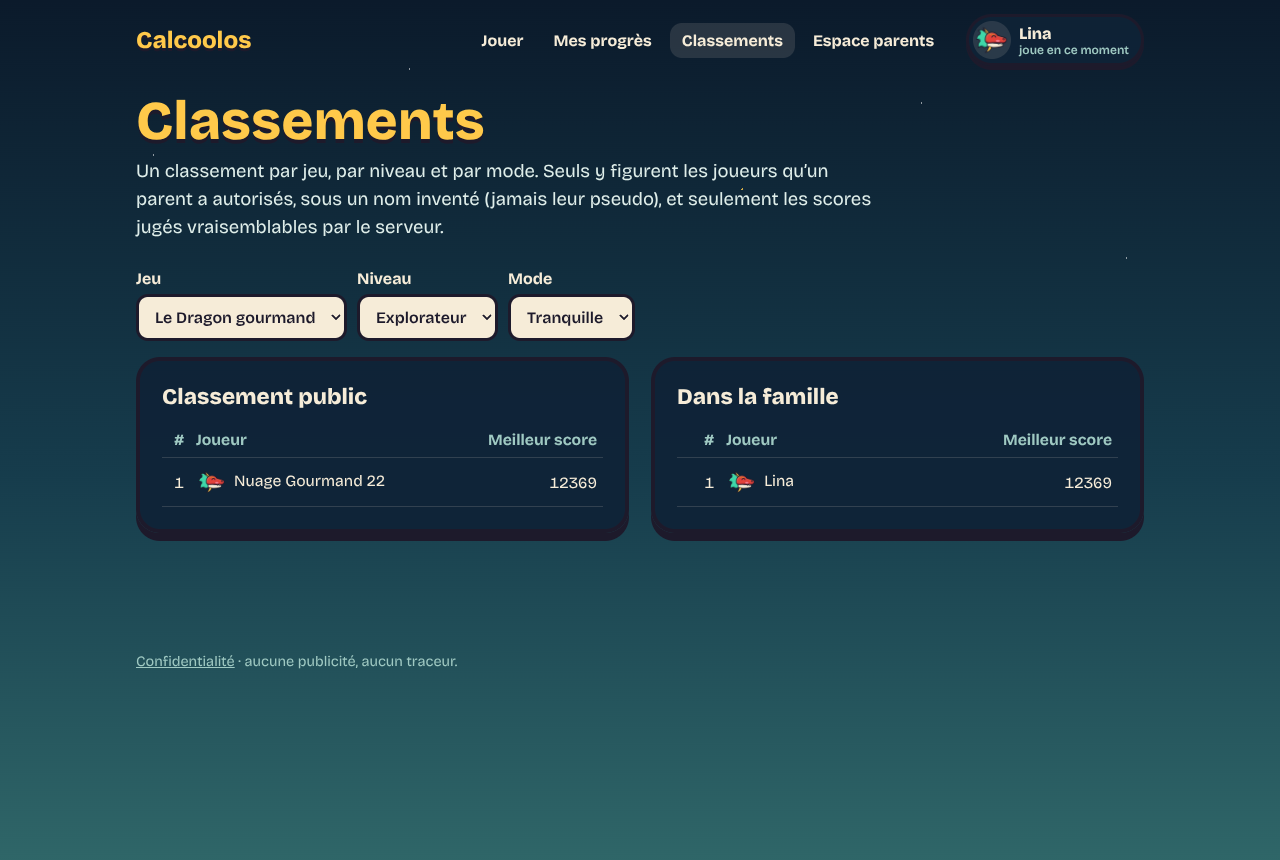
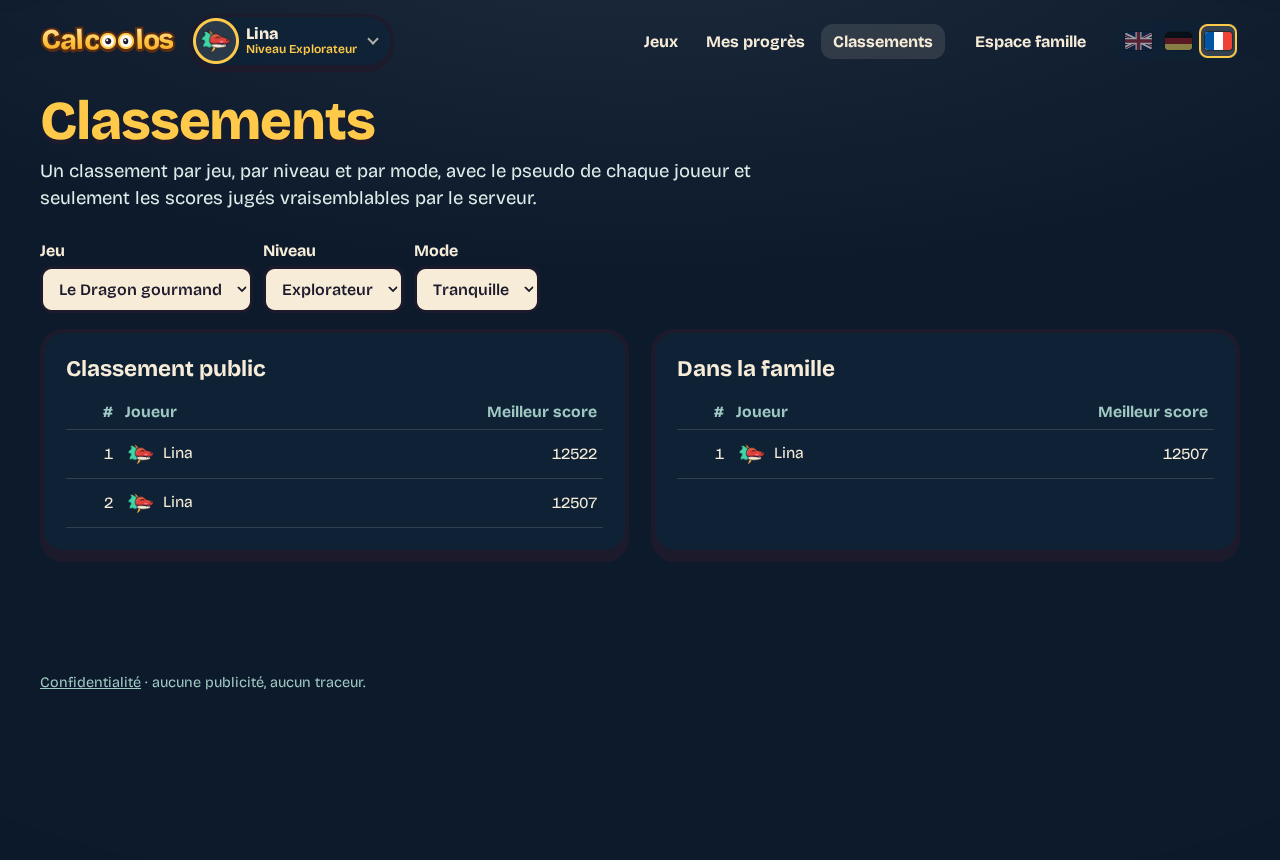
Classements publics sous le pseudo, plus de case d'autorisation ; « Aide-moi à trouver un pseudo »
La case « Apparaître dans les classements publics, sous le nom inventé… » et le bouton
« Autre nom » disparaissent : tous les profils figurent au classement public sous leur pseudo
(scores vérifiés seulement, jamais l'e-mail). Nouveau bouton sous le champ Pseudo qui propose
des pseudos rigolos : jeux de mots sur les maths, titres de héros, animal + adjectif.

diff --git a/src/entries/compte.ts b/src/entries/compte.ts
@@ -10,6 +10,7 @@ import { activePlayer, setActivePlayer } from '../platform/player';
 import { TIER_NAMES } from '../platform/stats';
 import { field, h, showErrors } from '../platform/dom';
 import { boutonGoogle, oublierGoogle } from '../platform/google';
+import { pseudoAuHasard } from '../platform/pseudos';
 
 const root = document.querySelector<HTMLElement>('#contenu')!;
 
@@ -27,6 +28,19 @@ function avatarPicker(name: string, value = 'dragon'): HTMLFieldSetElement {
     fs.append(h('label', { title: a.label }, input, avatarImg(id, 52, '')));
   }
   return fs;
+}
+
+/** Champ « Pseudo » avec le bouton « Aide-moi à trouver un pseudo » (jeux de mots sur les maths). */
+function pseudoField(value = ''): HTMLElement {
+  const input = h('input', { name: 'pseudo', value, maxlength: 20, required: true, placeholder: 'ex. Lina, Super Noé' });
+  const aide = h('button', { class: 'bouton petit secondaire pseudo-aide', type: 'button' }, '🎲 Aide-moi à trouver un pseudo');
+  aide.addEventListener('click', () => {
+    input.value = pseudoAuHasard(input.value);
+    input.focus();
+  });
+  return h('div', { class: 'champ-pseudo' },
+    field('Pseudo', input, 'pseudo', 'Un surnom suffit : pas de nom de famille. Il apparaît dans les classements publics.'),
+    aide);
 }
 
 function busy(form: HTMLFormElement, on: boolean): void {
@@ -147,7 +161,7 @@ function profileCard(p: Profile, refresh: (profiles: Profile[]) => void): HTMLEl
   });
 
   const edit = h('form', { class: 'formulaire', novalidate: true },
-    field('Pseudo', h('input', { name: 'pseudo', value: p.pseudo, maxlength: 20, required: true }), 'pseudo', 'Un surnom suffit : pas de nom de famille.'),
+    pseudoField(p.pseudo),
     field('Niveau', tierSelect('niveau', p.niveau), 'niveau'),
     avatarPicker(`avatar-${p.id}`, p.avatar),
     h('div', { class: 'actions' }, h('button', { class: 'bouton petit', type: 'submit' }, 'Enregistrer')),
@@ -164,18 +178,6 @@ function profileCard(p: Profile, refresh: (profiles: Profile[]) => void): HTMLEl
     showErrors(edit, msg, r?.data ?? { erreur: 'Le serveur ne répond pas.' });
   });
 
-  const publicBox = h('input', { type: 'checkbox', checked: p.classementPublic });
-  publicBox.addEventListener('change', async () => {
-    const r = await api.post<{ profils: Profile[] }>(`/profils/${p.id}/modifier`, { classementPublic: publicBox.checked }).catch(() => null);
-    if (r?.status === 200) refresh(r.data.profils);
-    else publicBox.checked = !publicBox.checked;
-  });
-  const rename = h('button', { class: 'bouton petit secondaire', type: 'button' }, 'Autre nom');
-  rename.addEventListener('click', async () => {
-    const r = await api.post<{ profils: Profile[] }>(`/profils/${p.id}/modifier`, { nouveauNomPublic: true }).catch(() => null);
-    if (r?.status === 200) refresh(r.data.profils);
-  });
-
   const del = h('button', { class: 'bouton petit danger', type: 'button' }, 'Supprimer ce profil');
   del.addEventListener('click', async () => {
     if (!window.confirm(t(`Supprimer le profil « ${p.pseudo} » et tous ses résultats ? C’est définitif.`))) return;
@@ -190,9 +192,7 @@ function profileCard(p: Profile, refresh: (profiles: Profile[]) => void): HTMLEl
     h('div', { class: 'profil-tete' }, avatarImg(p.avatar, 64, ''), h('div', {}, h('h3', {}, p.pseudo), h('span', { class: 'discret' }, TIER_NAMES[p.niveau] ?? p.niveau))),
     h('div', { class: 'actions' }, play, h('a', { class: 'bouton petit secondaire', href: `tableau.html?profil=${p.id}` }, 'Voir ses progrès')),
     h('details', {}, h('summary', {}, 'Modifier'), edit),
-    h('label', { class: 'case' }, publicBox, h('span', {},
-      'Apparaître dans les classements publics, sous le nom inventé « ', h('b', {}, p.nomPublic), ' » (jamais le pseudo). Désactivé par défaut.')),
-    h('div', { class: 'actions' }, rename, del),
+    h('div', { class: 'actions' }, del),
     msg,
   );
 }
@@ -200,7 +200,7 @@ function profileCard(p: Profile, refresh: (profiles: Profile[]) => void): HTMLEl
 function newProfileCard(refresh: (profiles: Profile[]) => void): HTMLElement {
   const msg = h('p', { class: 'message', role: 'status' });
   const form = h('form', { class: 'formulaire', novalidate: true },
-    field('Pseudo', h('input', { name: 'pseudo', maxlength: 20, required: true, placeholder: 'ex. Lina, Super Noé' }), 'pseudo', 'Un surnom suffit : pas de nom de famille.'),
+    pseudoField(),
     field('Niveau', tierSelect('niveau'), 'niveau'),
     avatarPicker('avatar-nouveau'),
     msg,
@@ -339,7 +339,7 @@ function renderAccount(state: AccountState): void {
   refresh(state.profils ?? []);
   root.replaceChildren(
     h('h1', {}, 'Espace famille'),
-    h('p', { class: 'chapeau' }, 'Chaque enfant a son profil : un pseudo, un avatar, un niveau. Ses résultats ne sont visibles que dans cet espace, sauf si vous l’autorisez à apparaître dans les classements publics, et alors seulement sous un nom inventé.'),
+    h('p', { class: 'chapeau' }, 'Chaque enfant a son profil : un pseudo, un avatar, un niveau. Ses meilleurs scores apparaissent dans les classements publics sous son pseudo ; le reste de ses résultats n’est visible que dans cet espace.'),
     grid,
     h('div', { style: 'height: 22px' }),
     accountCard(state),

diff --git a/src/i18n/de.ts b/src/i18n/de.ts
@@ -111,8 +111,8 @@ export const DE: Dictionnaire = {
   'Les classements ont besoin du serveur : indisponible pour le moment.': 'Die Bestenlisten brauchen den Server: im Moment nicht erreichbar.',
   'Classement public': 'Öffentliche Bestenliste',
   'Dans la famille': 'In der Familie',
-  'Un classement par jeu, par niveau et par mode. Seuls y figurent les joueurs qu’un parent a autorisés, sous un nom inventé (jamais leur pseudo), et seulement les scores jugés vraisemblables par le serveur.':
-    'Eine Bestenliste pro Spiel, Level und Modus. Dort erscheinen nur Spieler, die ein Elternteil erlaubt hat, unter einem erfundenen Namen (nie ihr Spitzname), und nur Punktestände, die der Server für glaubwürdig hält.',
+  'Un classement par jeu, par niveau et par mode, avec le pseudo de chaque joueur et seulement les scores jugés vraisemblables par le serveur.':
+    'Eine Bestenliste pro Spiel, Level und Modus, mit dem Spitznamen jedes Spielers und nur Punkteständen, die der Server für glaubwürdig hält.',
   Jeu: 'Spiel',
   Niveau: 'Level',
   Mode: 'Modus',
@@ -130,15 +130,13 @@ export const DE: Dictionnaire = {
   'Créer un espace famille': 'Einen Familienbereich anlegen',
   'Jouer avec ce profil': 'Mit diesem Profil spielen',
   Pseudo: 'Spitzname',
-  'Un surnom suffit : pas de nom de famille.': 'Ein Spitzname reicht: kein Nachname.',
+  'Un surnom suffit : pas de nom de famille. Il apparaît dans les classements publics.': 'Ein Spitzname reicht: kein Nachname. Er erscheint in öffentlichen Bestenlisten.',
+  '🎲 Aide-moi à trouver un pseudo': '🎲 Hilf mir, einen Spitznamen zu finden',
   Enregistrer: 'Speichern',
-  'Autre nom': 'Anderer Name',
   'Supprimer ce profil': 'Dieses Profil löschen',
   'Supprimer le profil « {*} » et tous ses résultats ? C’est définitif.': 'Das Profil „{}“ und alle seine Ergebnisse löschen? Das ist endgültig.',
   'Voir ses progrès': 'Fortschritte ansehen',
   Modifier: 'Bearbeiten',
-  'Apparaître dans les classements publics, sous le nom inventé «': 'In öffentlichen Bestenlisten erscheinen, unter dem erfundenen Namen „',
-  '» (jamais le pseudo). Désactivé par défaut.': '“ (nie der Spitzname). Standardmäßig aus.',
   'ex. Lina, Super Noé': 'z. B. Lina, Super Noah',
   'Ajouter le profil': 'Profil hinzufügen',
   'Nouveau profil de joueur': 'Neues Spielerprofil',
@@ -155,8 +153,8 @@ export const DE: Dictionnaire = {
   'Connecté avec': 'Angemeldet als',
   'Télécharger nos données': 'Unsere Daten herunterladen',
   'Supprimer le compte': 'Konto löschen',
-  'Chaque enfant a son profil : un pseudo, un avatar, un niveau. Ses résultats ne sont visibles que dans cet espace, sauf si vous l’autorisez à apparaître dans les classements publics, et alors seulement sous un nom inventé.':
-    'Jedes Kind hat ein eigenes Profil: Spitzname, Avatar, Level. Seine Ergebnisse sind nur in diesem Bereich sichtbar, außer Sie erlauben ihm, in öffentlichen Bestenlisten zu erscheinen, und dann nur unter einem erfundenen Namen.',
+  'Chaque enfant a son profil : un pseudo, un avatar, un niveau. Ses meilleurs scores apparaissent dans les classements publics sous son pseudo ; le reste de ses résultats n’est visible que dans cet espace.':
+    'Jedes Kind hat ein eigenes Profil: Spitzname, Avatar, Level. Seine besten Punktestände erscheinen in öffentlichen Bestenlisten unter seinem Spitznamen; der Rest seiner Ergebnisse ist nur in diesem Bereich sichtbar.',
   'Serveur indisponible': 'Server nicht erreichbar',
   'L’espace famille n’est pas joignable pour le moment (ou ce site fonctionne sans serveur). On peut toujours jouer en invité : les résultats restent sur cet appareil.':
     'Der Familienbereich ist im Moment nicht erreichbar (oder diese Seite läuft ohne Server). Man kann trotzdem als Gast spielen: Die Ergebnisse bleiben auf diesem Gerät.',

diff --git a/src/i18n/en.ts b/src/i18n/en.ts
@@ -111,8 +111,8 @@ export const EN: Dictionnaire = {
   'Les classements ont besoin du serveur : indisponible pour le moment.': 'Leaderboards need the server: unavailable right now.',
   'Classement public': 'Public leaderboard',
   'Dans la famille': 'In the family',
-  'Un classement par jeu, par niveau et par mode. Seuls y figurent les joueurs qu’un parent a autorisés, sous un nom inventé (jamais leur pseudo), et seulement les scores jugés vraisemblables par le serveur.':
-    'One leaderboard per game, level and mode. Only players allowed by a parent appear, under a made-up name (never their nickname), and only scores the server finds believable.',
+  'Un classement par jeu, par niveau et par mode, avec le pseudo de chaque joueur et seulement les scores jugés vraisemblables par le serveur.':
+    'One leaderboard per game, level and mode, with each player’s nickname and only scores the server finds believable.',
   Jeu: 'Game',
   Niveau: 'Level',
   Mode: 'Mode',
@@ -130,15 +130,13 @@ export const EN: Dictionnaire = {
   'Créer un espace famille': 'Create a family space',
   'Jouer avec ce profil': 'Play with this profile',
   Pseudo: 'Nickname',
-  'Un surnom suffit : pas de nom de famille.': 'A nickname is enough: no surname.',
+  'Un surnom suffit : pas de nom de famille. Il apparaît dans les classements publics.': 'A nickname is enough: no surname. It appears in public leaderboards.',
+  '🎲 Aide-moi à trouver un pseudo': '🎲 Help me find a nickname',
   Enregistrer: 'Save',
-  'Autre nom': 'Another name',
   'Supprimer ce profil': 'Delete this profile',
   'Supprimer le profil « {*} » et tous ses résultats ? C’est définitif.': 'Delete the profile “{}” and all its results? This cannot be undone.',
   'Voir ses progrès': 'See progress',
   Modifier: 'Edit',
-  'Apparaître dans les classements publics, sous le nom inventé «': 'Appear in public leaderboards, under the made-up name “',
-  '» (jamais le pseudo). Désactivé par défaut.': '” (never the nickname). Off by default.',
   'ex. Lina, Super Noé': 'e.g. Lina, Super Noah',
   'Ajouter le profil': 'Add profile',
   'Nouveau profil de joueur': 'New player profile',
@@ -155,8 +153,8 @@ export const EN: Dictionnaire = {
   'Connecté avec': 'Logged in as',
   'Télécharger nos données': 'Download our data',
   'Supprimer le compte': 'Delete the account',
-  'Chaque enfant a son profil : un pseudo, un avatar, un niveau. Ses résultats ne sont visibles que dans cet espace, sauf si vous l’autorisez à apparaître dans les classements publics, et alors seulement sous un nom inventé.':
-    'Each child has a profile: a nickname, an avatar, a level. Their results are only visible in this space, unless you allow them to appear in public leaderboards, and then only under a made-up name.',
+  'Chaque enfant a son profil : un pseudo, un avatar, un niveau. Ses meilleurs scores apparaissent dans les classements publics sous son pseudo ; le reste de ses résultats n’est visible que dans cet espace.':
+    'Each child has a profile: a nickname, an avatar, a level. Their best scores appear in public leaderboards under their nickname; the rest of their results are only visible in this space.',
   'Serveur indisponible': 'Server unavailable',
   'L’espace famille n’est pas joignable pour le moment (ou ce site fonctionne sans serveur). On peut toujours jouer en invité : les résultats restent sur cet appareil.':
     'The family space can’t be reached right now (or this site runs without a server). You can still play as a guest: results stay on this device.',

diff --git a/src/platform/pseudos.ts b/src/platform/pseudos.ts
@@ -1,0 +1,50 @@
+/**
+ * « Aide-moi à trouver un pseudo » : des pseudos rigolos, tirés au hasard parmi trois familles
+ * (jeux de mots sur les maths, titres de héros, animal + adjectif accordé).
+ * Contrainte du serveur : 2 à 20 caractères, lettres, chiffres, espaces, « - » et « _ » seulement.
+ */
+export const JEUX_DE_MOTS = [
+  'Léa Dition', 'Sir Conférence', 'Pierre Amide', 'Cécile Indre', 'Hector Angle', 'Paul Ygone',
+  'Alain Fini', 'Émile Liard', 'Anne Tier', 'Mathieu Matiques', 'Al Gèbre', 'Pi Casso',
+  'Algo Rythme', 'Max Imum', 'Mini Mum', 'Tri Angle', 'Cal Culette', 'Di Vision', 'Jean Tégral',
+  'Sept Sur Sept', 'Cent Pour Cent', 'Zorro Zéro',
+];
+
+export const TITRES = [
+  'Super Calculateur', 'Roi des Nombres', 'Reine des Nombres', 'Capitaine Pi', 'Ninja du Zéro',
+  'Turbo Tables', 'Mister Mille', 'Lady Dizaine', 'Roi des Carrés', 'Pirate des Nombres',
+  'Super Neuf', 'Docteur Double', 'Fée des Fractions', 'Baron Bonus', 'Mage des Multiples',
+  'Duc de Douze', 'Cerveau Turbo', 'Fusée Mentale', 'Champion du Calcul', 'Professeur Pépin',
+  'Agent Zéro Faute', 'Capitaine Chiffres', 'Princesse Plus', 'Prince des Puzzles',
+];
+
+/** Animal et genre grammatical (m/f), pour accorder l'adjectif. */
+export const ANIMAUX: readonly [string, 'm' | 'f'][] = [
+  ['Lama', 'm'], ['Poisson', 'm'], ['Hibou', 'm'], ['Escargot', 'm'], ['Panda', 'm'], ['Koala', 'm'],
+  ['Renard', 'm'], ['Pingouin', 'm'], ['Hérisson', 'm'], ['Canard', 'm'], ['Dragon', 'm'], ['Raton', 'm'],
+  ['Chouette', 'f'], ['Girafe', 'f'], ['Loutre', 'f'], ['Tortue', 'f'], ['Licorne', 'f'], ['Baleine', 'f'],
+  ['Grenouille', 'f'], ['Poule', 'f'], ['Souris', 'f'], ['Pieuvre', 'f'],
+];
+
+export const ADJECTIFS: readonly [string, string][] = [
+  ['Fâché', 'Fâchée'], ['Malin', 'Maligne'], ['Rigolo', 'Rigolote'], ['Futé', 'Futée'], ['Turbo', 'Turbo'],
+  ['Farceur', 'Farceuse'], ['Gourmand', 'Gourmande'], ['Masqué', 'Masquée'], ['Volant', 'Volante'],
+  ['Pressé', 'Pressée'], ['Génial', 'Géniale'], ['Rusé', 'Rusée'], ['Zinzin', 'Zinzin'], ['Costaud', 'Costaude'],
+  ['Cosmique', 'Cosmique'], ['Têtu', 'Têtue'], ['Endormi', 'Endormie'], ['Joyeux', 'Joyeuse'],
+];
+
+const auHasard = <T>(liste: readonly T[]): T => liste[Math.floor(Math.random() * liste.length)];
+
+function animal(): string {
+  const [nom, genre] = auHasard(ANIMAUX);
+  return `${nom} ${auHasard(ADJECTIFS)[genre === 'f' ? 1 : 0]}`;
+}
+
+/** Un pseudo au hasard, différent de `sauf` (le pseudo déjà dans le champ). */
+export function pseudoAuHasard(sauf = ''): string {
+  for (;;) {
+    const famille = Math.random();
+    const p = famille < 0.3 ? auHasard(JEUX_DE_MOTS) : famille < 0.55 ? auHasard(TITRES) : animal();
+    if (p !== sauf) return p;
+  }
+}

diff --git a/tests/pseudos.test.ts b/tests/pseudos.test.ts
@@ -1,0 +1,20 @@
+import { describe, expect, it } from 'vitest';
+import { ADJECTIFS, ANIMAUX, JEUX_DE_MOTS, TITRES, pseudoAuHasard } from '../src/platform/pseudos';
+
+const ACCEPTE = /^[\p{L}\p{N} _-]{2,20}$/u;
+
+describe('Aide-moi à trouver un pseudo', () => {
+  it('chaque idée possible est acceptée par le serveur (2 à 20 lettres, chiffres, espaces, - ou _)', () => {
+    for (const p of [...JEUX_DE_MOTS, ...TITRES]) expect(p).toMatch(ACCEPTE);
+    for (const [nom, genre] of ANIMAUX) {
+      for (const adj of ADJECTIFS) expect(`${nom} ${adj[genre === 'f' ? 1 : 0]}`).toMatch(ACCEPTE);
+    }
+  });
+  it('aucun doublon dans les listes', () => {
+    const toutes = [...JEUX_DE_MOTS, ...TITRES];
+    expect(new Set(toutes).size).toBe(toutes.length);
+  });
+  it('propose toujours un autre pseudo que celui déjà écrit', () => {
+    for (let i = 0; i < 500; i++) expect(pseudoAuHasard('Lama Fâché')).not.toBe('Lama Fâché');
+  });
+});

diff --git a/confidentialite.html b/confidentialite.html
@@ -60,8 +60,9 @@
         <h2>Qui voit quoi ?</h2>
         <ul>
           <li>Les résultats d’un enfant ne sont visibles que dans l’espace famille de son compte.</li>
-          <li>Les classements publics n’affichent que les profils explicitement autorisés par l’adulte, sous un
-            <b>nom inventé</b> (par exemple « Dragon Futé 42 »), jamais le pseudo ni l’adresse e-mail.</li>
+          <li>Les classements publics affichent le <b>pseudo</b>, l’avatar et le meilleur score de chaque profil,
+            jamais l’adresse e-mail. Choisissez donc un surnom plutôt qu’un vrai nom (le bouton « Aide-moi à trouver
+            un pseudo » en propose).</li>
           <li>Il n’y a pas de chat, de commentaire ni de contenu publié par les joueurs.</li>
         </ul>
 

diff --git a/src/entries/classements.ts b/src/entries/classements.ts
@@ -63,7 +63,7 @@ void (async () => {
   for (const s of [jeu, niveau, mode]) s.addEventListener('change', () => void load());
   root.replaceChildren(
     h('h1', {}, 'Classements'),
-    h('p', { class: 'chapeau' }, 'Un classement par jeu, par niveau et par mode. Seuls y figurent les joueurs qu’un parent a autorisés, sous un nom inventé (jamais leur pseudo), et seulement les scores jugés vraisemblables par le serveur.'),
+    h('p', { class: 'chapeau' }, 'Un classement par jeu, par niveau et par mode, avec le pseudo de chaque joueur et seulement les scores jugés vraisemblables par le serveur.'),
     h('div', { class: 'onglets' },
       h('label', { class: 'champ' }, 'Jeu', jeu),
       h('label', { class: 'champ' }, 'Niveau', niveau),

diff --git a/src/styles/plateforme.css b/src/styles/plateforme.css
@@ -607,6 +607,15 @@ form.formulaire {
   outline-offset: 1px;
 }
 
+.champ-pseudo {
+  display: grid;
+  gap: 8px;
+}
+
+.champ-pseudo .pseudo-aide {
+  justify-self: start;
+}
+
 .case {
   display: flex;
   gap: 10px;

diff --git a/src/platform/api.ts b/src/platform/api.ts
@@ -7,8 +7,6 @@ export interface Profile {
   pseudo: string;
   avatar: string;
   niveau: string;
-  classementPublic: boolean;
-  nomPublic: string;
 }
 
 export interface AccountState {

diff --git a/server/src/Api.php b/server/src/Api.php
@@ -14,8 +14,8 @@ use PDO;
  *   (même compte, mêmes profils : seul le moyen de se connecter change).
  * - Il crée des profils de joueurs privés : pseudo, avatar, niveau. Rien d'autre.
  * - Les résultats sont rattachés à un profil ; seul le compte propriétaire les voit.
- * - Classements publics : seulement les profils dont l'adulte l'a autorisé, sous un
- *   nom public généré (jamais le pseudo, jamais l'e-mail).
+ * - Classements publics : tous les profils, sous leur pseudo (jamais l'e-mail), avec
+ *   seulement les scores vérifiés.
  *
  * Protection CSRF : toute requête POST doit être en JSON et porter l'en-tête
  * `X-Calcoolos` (impossible depuis un formulaire d'un autre site) ; une fois
@@ -499,19 +499,17 @@ final class Api
 
     /**
      * @param array{id: int, email: string} $account
-     * @return list<array{id: int, pseudo: string, avatar: string, niveau: string, classementPublic: bool, nomPublic: string}>
+     * @return list<array{id: int, pseudo: string, avatar: string, niveau: string, }>
      */
     private function profiles(array $account): array
     {
-        $q = $this->db->prepare('SELECT id, pseudo, avatar, niveau, classement_public, nom_public FROM profils WHERE compte_id = ? ORDER BY id');
+        $q = $this->db->prepare('SELECT id, pseudo, avatar, niveau FROM profils WHERE compte_id = ? ORDER BY id');
         $q->execute([$account['id']]);
         return array_map(static fn (array $p): array => [
             'id' => (int) $p['id'],
             'pseudo' => (string) $p['pseudo'],
             'avatar' => (string) $p['avatar'],
             'niveau' => (string) $p['niveau'],
-            'classementPublic' => (bool) $p['classement_public'],
-            'nomPublic' => (string) $p['nom_public'],
         ], $q->fetchAll());
     }
 
@@ -591,17 +589,6 @@ final class Api
         if (array_key_exists('niveau', $in)) {
             $sets[] = 'niveau = ?';
             $args[] = self::tier($in['niveau']);
-        }
-        if (array_key_exists('classementPublic', $in)) {
-            if (!is_bool($in['classementPublic'])) {
-                throw new HttpError(422, 'Données invalides.');
-            }
-            $sets[] = 'classement_public = ?';
-            $args[] = $in['classementPublic'] ? 1 : 0;
-        }
-        if (($in['nouveauNomPublic'] ?? false) === true) {
-            $sets[] = 'nom_public = ?';
-            $args[] = Names::publicName();
         }
         if ($sets) {
             $args[] = $profile['id'];
@@ -697,11 +684,11 @@ final class Api
         if (!isset(Games::CATALOG[$jeu]) || !in_array($niveau, Games::TIERS, true) || !in_array($mode, Games::MODES, true)) {
             throw new HttpError(422, 'Classement inconnu.');
         }
-        // Public : uniquement les profils autorisés par l'adulte, sous leur nom public.
-        $q = $this->db->prepare('SELECT p.nom_public AS nom, p.avatar AS avatar, MAX(r.score) AS score
+        // Public : tous les profils, sous leur pseudo, scores vérifiés seulement.
+        $q = $this->db->prepare('SELECT p.pseudo AS nom, p.avatar AS avatar, MAX(r.score) AS score
             FROM resultats r JOIN profils p ON p.id = r.profil_id
-            WHERE r.jeu = ? AND r.niveau = ? AND r.mode = ? AND r.verifie = 1 AND p.classement_public = 1
-            GROUP BY p.id, p.nom_public, p.avatar ORDER BY score DESC, p.id ASC LIMIT 20');
+            WHERE r.jeu = ? AND r.niveau = ? AND r.mode = ? AND r.verifie = 1
+            GROUP BY p.id, p.pseudo, p.avatar ORDER BY score DESC, p.id ASC LIMIT 20');
         $q->execute([$jeu, $niveau, $mode]);
         $public = [];
         foreach ($q->fetchAll() as $i => $row) {

diff --git a/server/tests/run.php b/server/tests/run.php
@@ -149,8 +149,7 @@ assert_status($alice->post('/profils', ['pseudo' => 'Lina', 'avatar' => 'dragon'
 $r = $alice->post('/profils', ['pseudo' => 'Lina', 'avatar' => 'dragon', 'niveau' => 'explorateur']);
 assert_status($r, 201, 'profil créé');
 $lina = $r->data['profils'][0];
-assert_true($lina['classementPublic'] === false, 'profil privé par défaut');
-assert_true(preg_match('/^\S+ \S+ \d\d$/u', $lina['nomPublic']) === 1, 'nom public généré : ' . $lina['nomPublic']);
+assert_true(array_keys($lina) === ['id', 'pseudo', 'avatar', 'niveau'], 'profil : pseudo, avatar, niveau, rien d\'autre');
 $r = $alice->post('/profils', ['pseudo' => 'Noé', 'avatar' => 'robot', 'niveau' => 'eveil']);
 $noe = $r->data['profils'][1];
 for ($i = 0; $i < 4; $i++) {
@@ -203,19 +202,14 @@ assert_status($bob->post('/resultats', $result($sam['id'], ['score' => 12000])),
 section('Classements');
 $q = ['jeu' => 'dragon', 'niveau' => 'explorateur', 'mode' => 'defi'];
 $r = $guest->get('/classements', $q);
-assert_true($r->data['public'] === [], 'profils privés absents du classement public');
 assert_true(!isset($r->data['famille']), 'pas de classement familial pour un invité');
-$alice->post("/profils/{$lina['id']}/modifier", ['classementPublic' => true]);
-$r = $guest->get('/classements', $q);
-assert_true(count($r->data['public']) === 1, 'Lina apparaît après autorisation');
-$row = $r->data['public'][0];
+$row = array_values(array_filter($r->data['public'], static fn (array $x): bool => $x['nom'] === 'Lina'))[0] ?? null;
+assert_true($row !== null, 'Lina au classement public sous son pseudo, sans autorisation à donner');
 assert_true($row['score'] === 8000, 'seul le meilleur score VÉRIFIÉ compte (pas 39000)');
-assert_true($row['nom'] === $lina['nomPublic'] && !str_contains($r->body(), 'Lina') && !str_contains($r->body(), '@'), 'nom public seulement : ni pseudo ni e-mail');
+assert_true(!str_contains($r->body(), '@'), 'jamais l\'e-mail au classement public');
 assert_true(array_keys($row) === ['rang', 'nom', 'avatar', 'score'], 'aucune autre donnée exposée');
 $r = $alice->get('/classements', $q);
 assert_true(count($r->data['famille']) === 1 && $r->data['famille'][0]['nom'] === 'Lina', 'classement familial avec le vrai pseudo, pour la famille seulement');
-$r = $alice->post("/profils/{$lina['id']}/modifier", ['nouveauNomPublic' => true]);
-assert_status($r, 200, 'nouveau nom public');
 assert_status($guest->get('/classements', ['jeu' => 'dragon', 'niveau' => 'x', 'mode' => 'defi']), 422, 'classement inconnu');
 
 section('Connexion');

diff --git a/server/src/Games.php b/server/src/Games.php
@@ -136,7 +136,10 @@ final class Games
     }
 }
 
-/** Noms publics générés (jamais le pseudo choisi par la famille). */
+/**
+ * Noms publics générés. Plus affichés depuis le 27/10/2026 (les classements publics montrent le
+ * pseudo) ; on remplit encore la colonne `profils.nom_public`, qui est obligatoire.
+ */
 final class Names
 {
     /** Créature et genre grammatical (m/f), pour accorder l'adjectif. */
